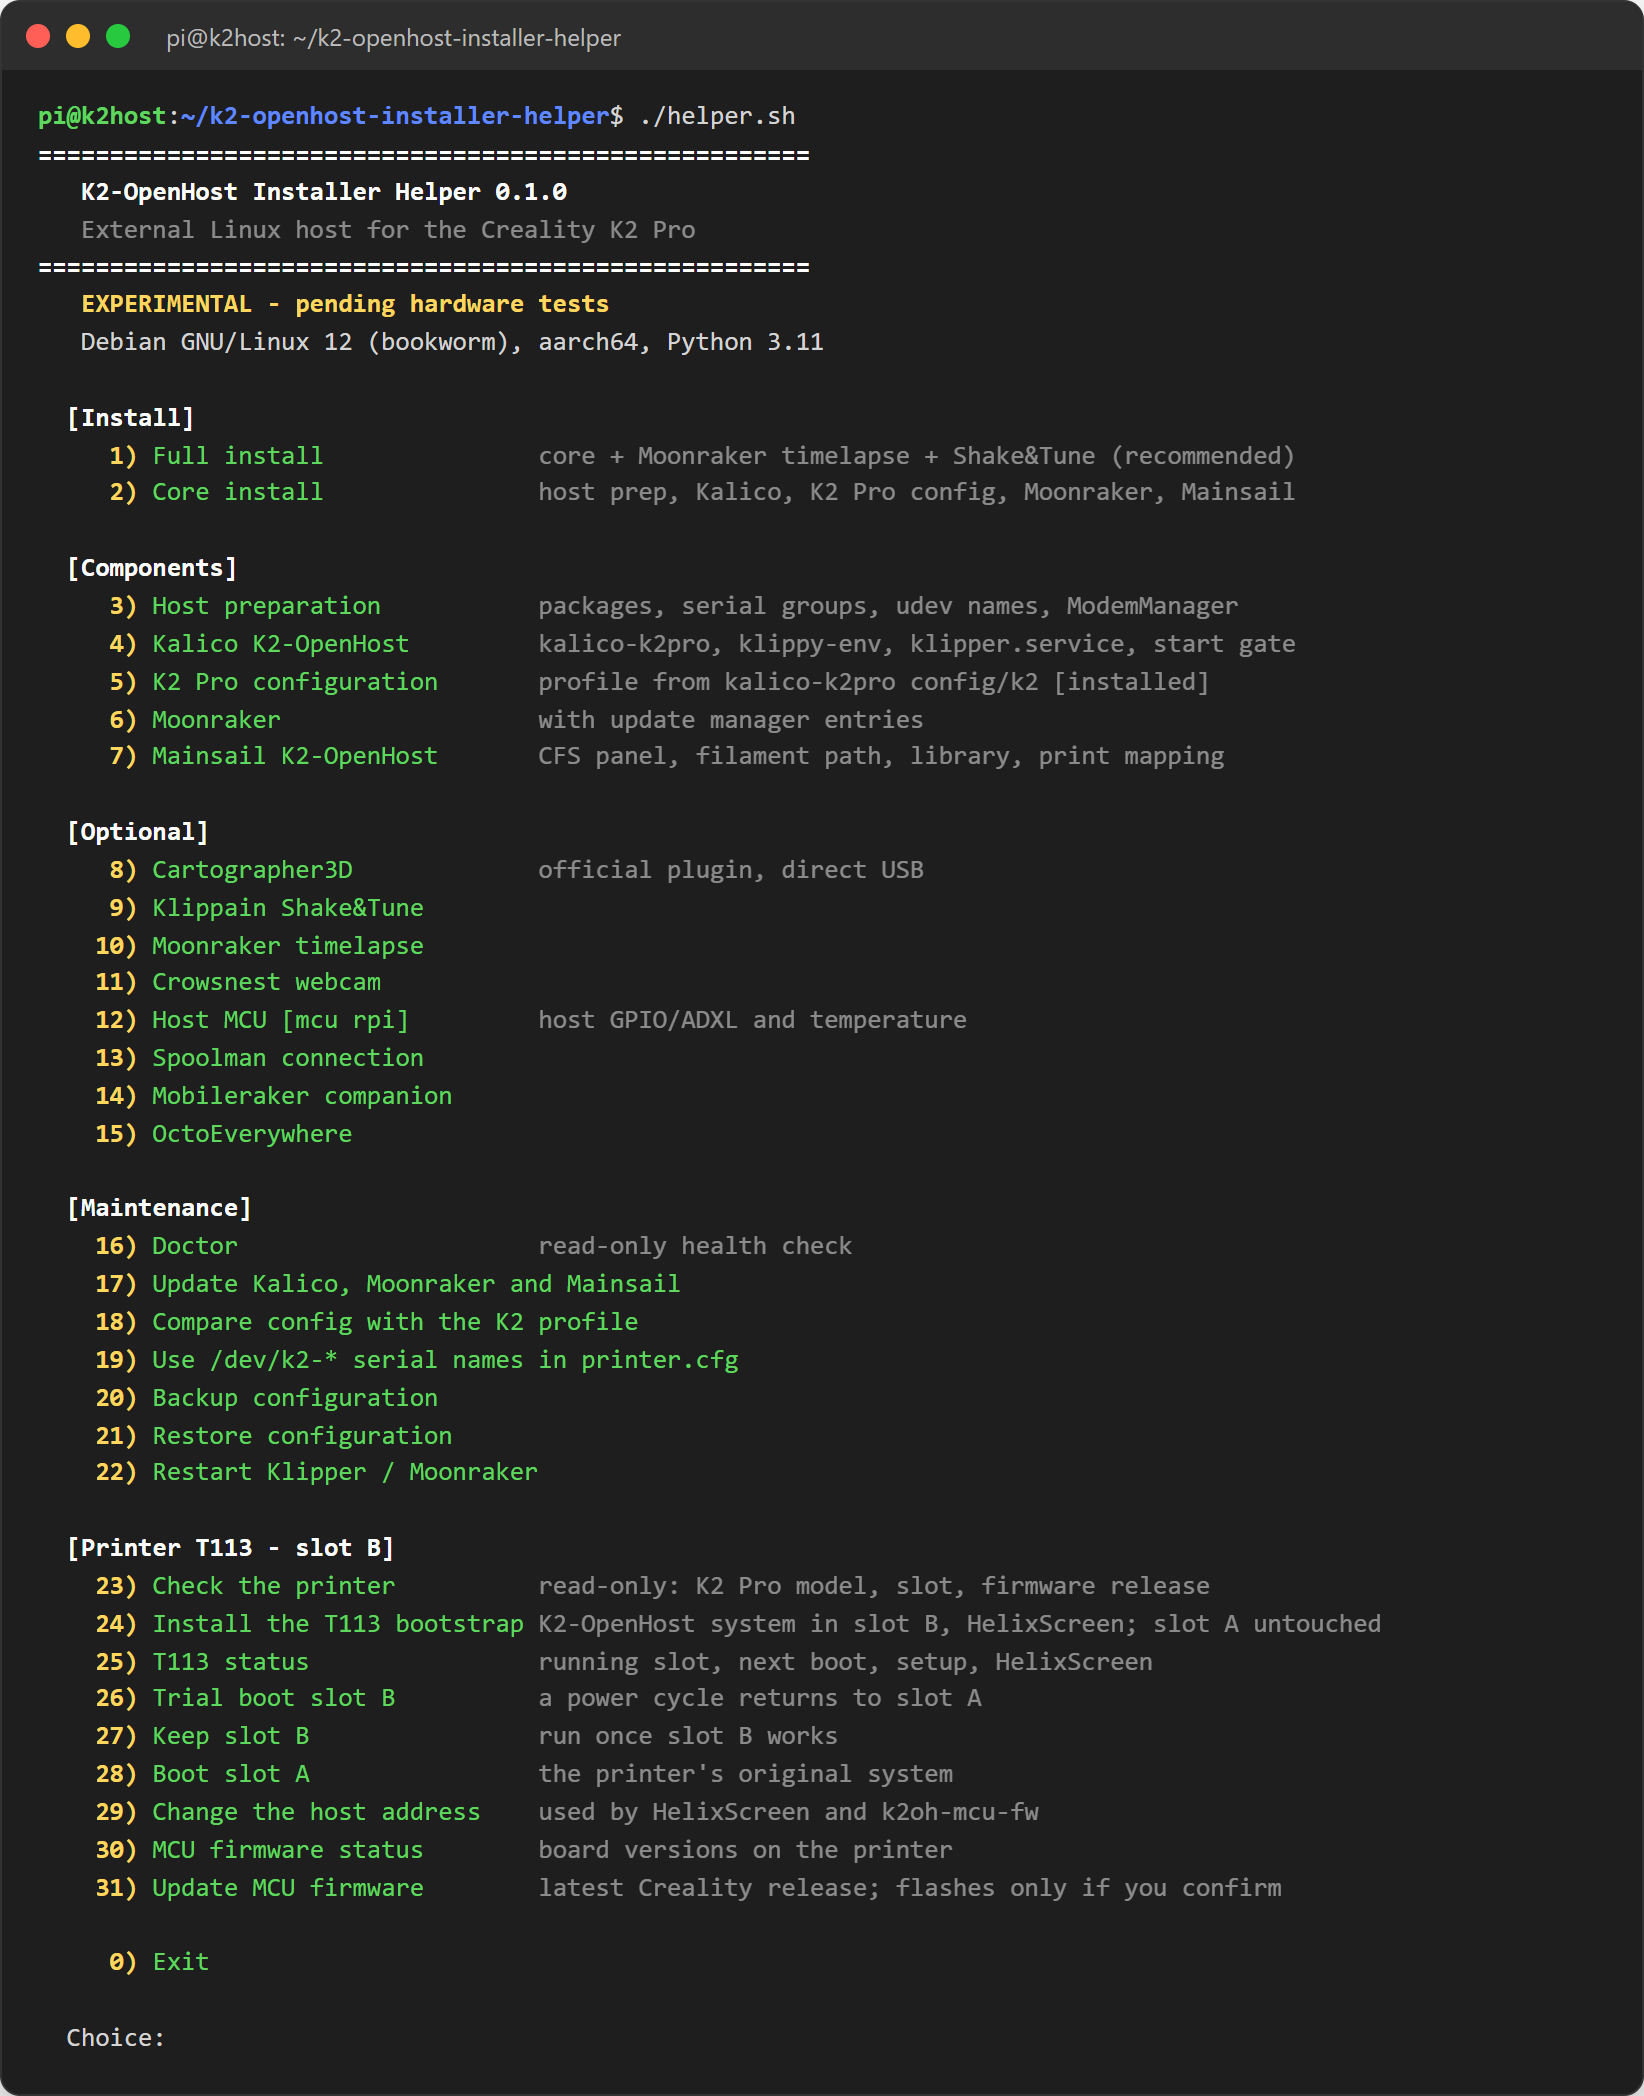
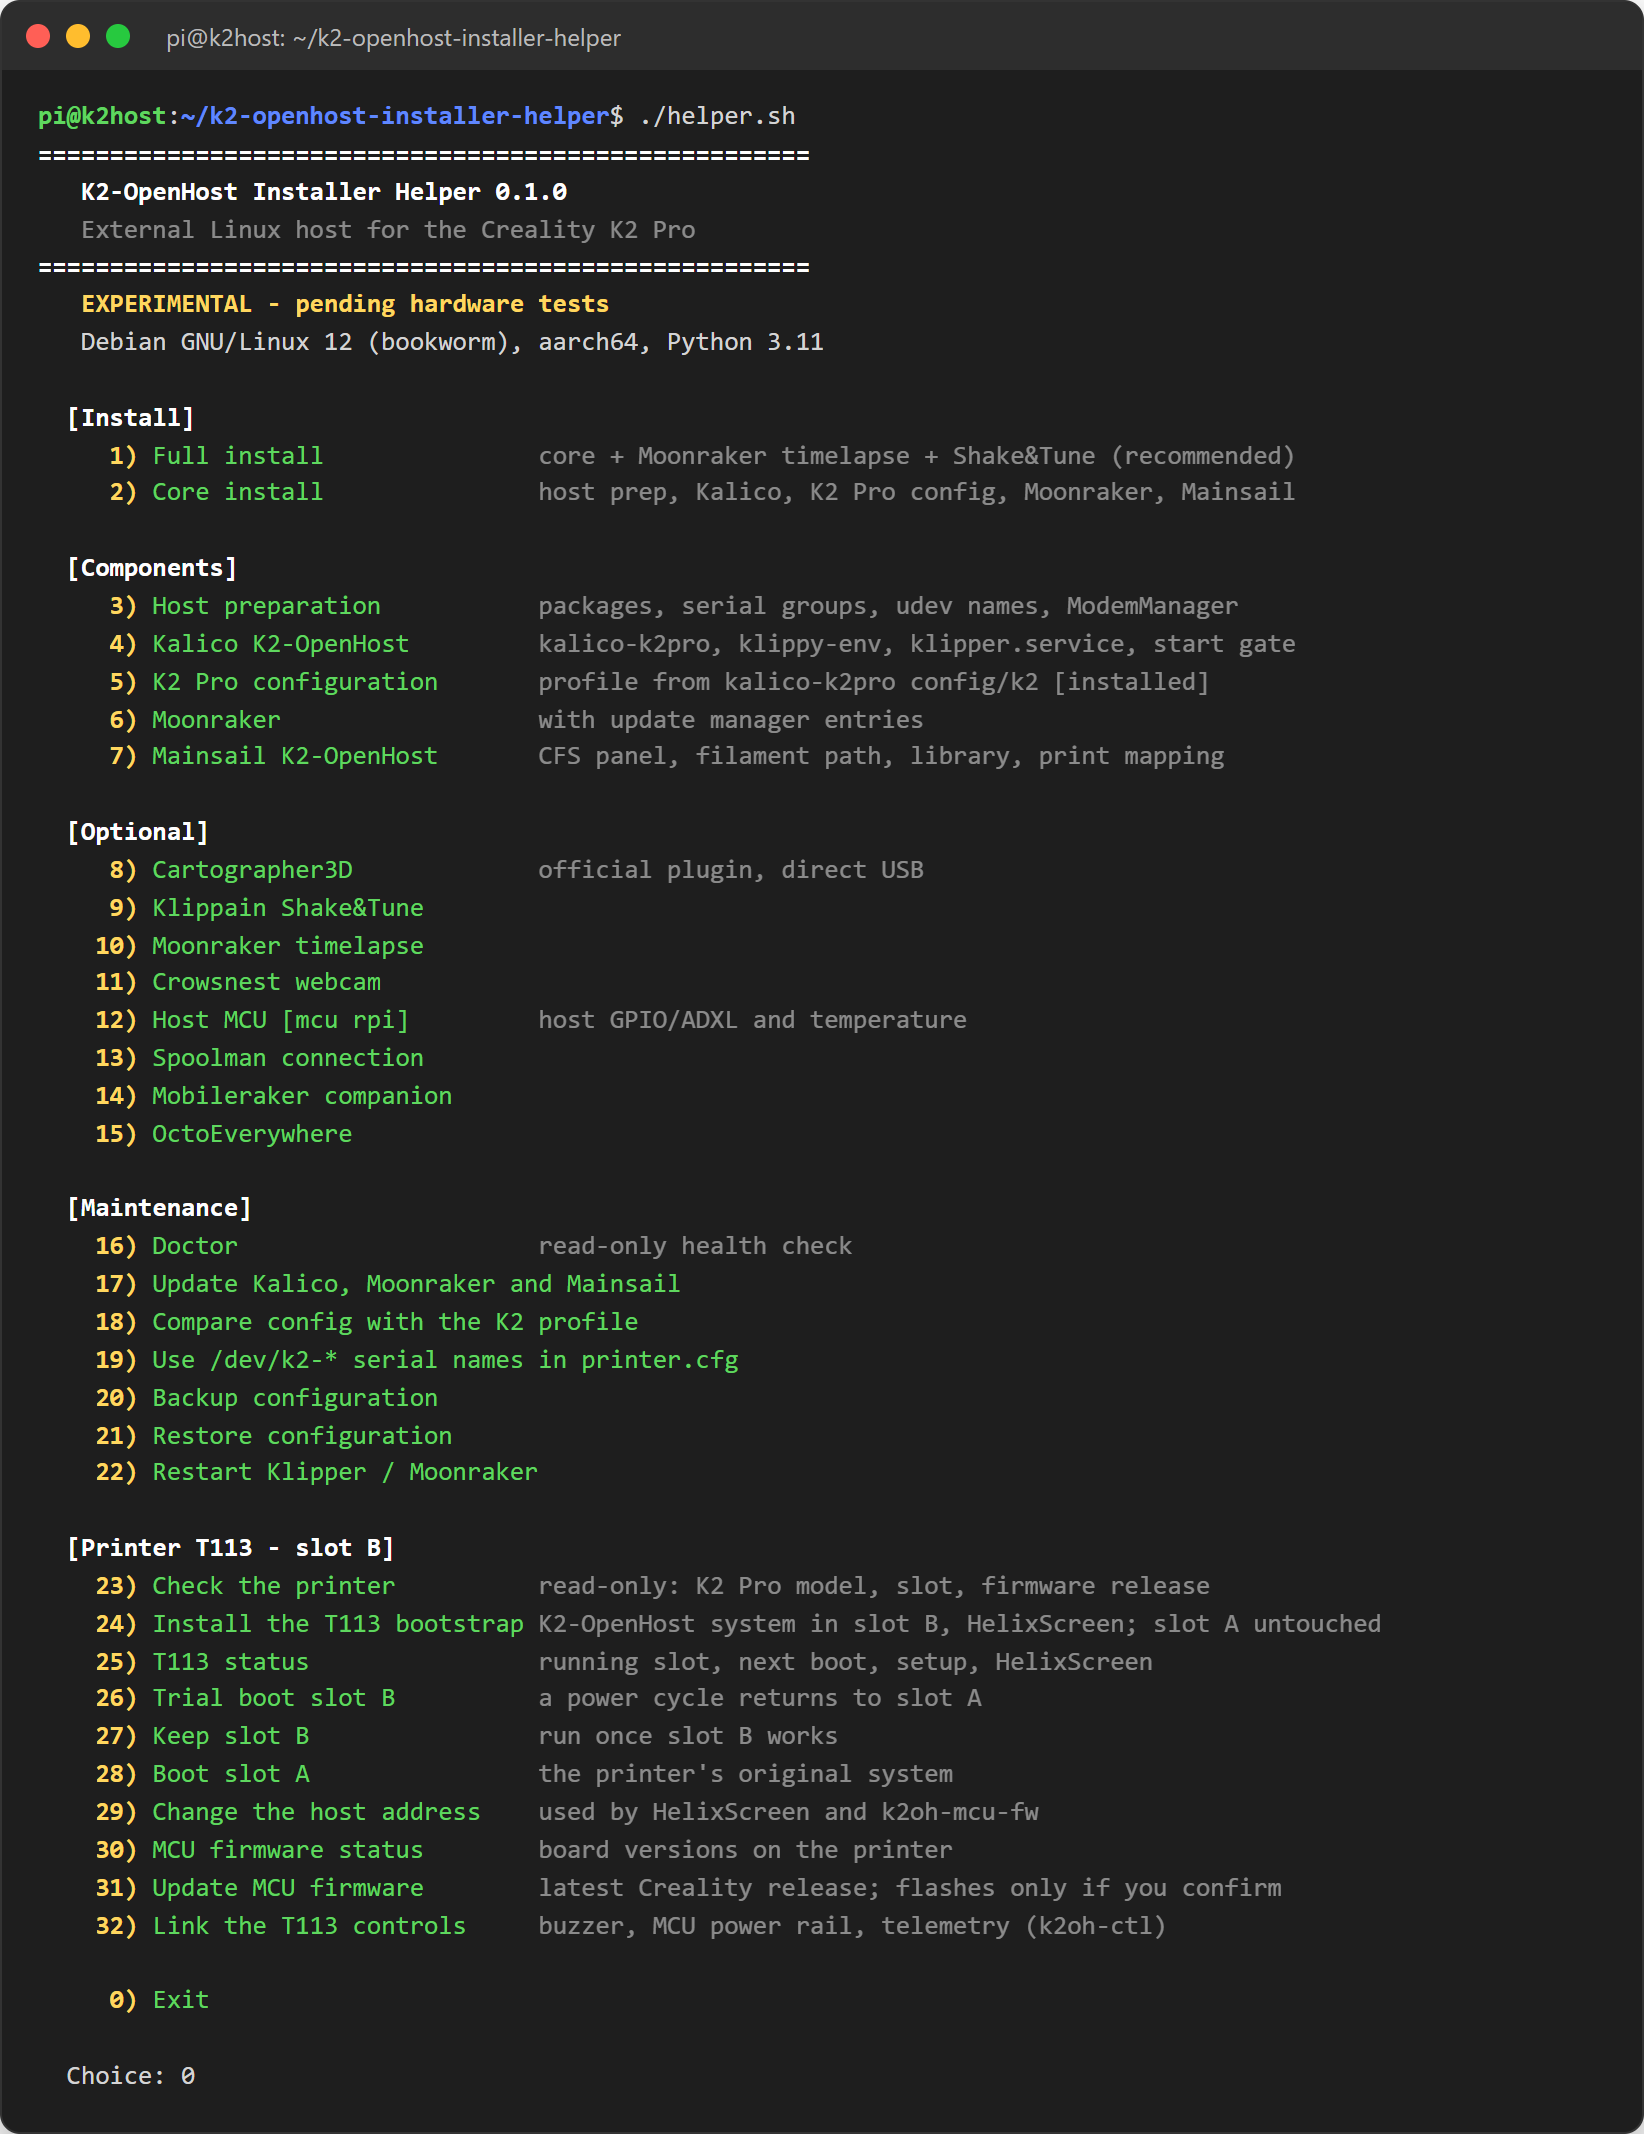
t113 link: connect this host to k2oh-ctl on the printer
Copies the k2oh-ctl token, sets host in k2_t113.cfg, writes the Moonraker power device K2_MCU_Power and enables [include k2_t113.cfg] when the installed Kalico has the module. Menu 32, also offered by the T113 install; k2_t113.cfg joins the K2 profile files. README EN/IT, CHANGELOG and menu/help screenshots updated.

diff --git a/README.it.md b/README.it.md
@@ -226,6 +226,7 @@ KAMP non viene installato a parte: è già integrato in Kalico e lo configura `k
 | 29 | Change the host address | Aggiorna l'host usato da HelixScreen e da `k2oh-mcu-fw` sulla stampante. |
 | 30 | MCU firmware status | Versioni delle schede sulla stampante e file firmware che lo slot B scriverebbe. |
 | 31 | Update MCU firmware | Scarica l'ultima versione Creality, la prepara, mostra cosa cambia e aggiorna solo se confermi. Se la stampante è inattiva propone di fermare Klipper su questo host, poi passa alla stampante una prova che le porte del gadget sono libere (serve `sudo`); gli stati sconosciuti bloccano. Passo per passo: `./helper.sh t113 mcu-fw list\|download\|stage\|apply` (vedi la guida). |
+| 32 | Link the T113 controls | Collega questo host a `k2oh-ctl` sullo slot B. Copia il token condiviso in `~/printer_data/config/k2oh_t113.token`, imposta `host` in `k2_t113.cfg` e scrive il dispositivo di alimentazione Moonraker `K2_MCU_Power` (`moonraker_k2_t113.conf`). Attiva `[include k2_t113.cfg]` solo se il Kalico installato ha il modulo. Viene proposto anche durante l'installazione. |
 
 Le voci già installate mostrano `[installed]`. Se un passaggio fallisce, il menu mostra l'errore e resta aperto.
 
@@ -256,6 +257,14 @@ La scheda T113 della stampante esegue i bridge USB gadget verso questo host. Il 
 `apply --cfs` include le unità CFS. Ecco un esempio sullo slot B, rispondendo no:
 
 <img src="docs/images/cli-t113-mcu-fw-update.png" alt="k2oh-mcu-fw update" width="760">
+
+**5. Servizio di controllo del T113** (voce 32, `./helper.sh t113 link`): collega Kalico e Moonraker a `k2oh-ctl` sulla stampante:
+- il buzzer: `T113_BEEP`, `M300`, e il bip dell'RFID esterno;
+- la telemetria del T113: `T113_STATUS`;
+- il riavvio dei bridge e di HelixScreen;
+- l'alimentazione delle MCU: il dispositivo Moonraker `K2_MCU_Power`, bloccato durante la stampa, e `T113_MCU_POWER_CYCLE CONFIRM=1`.
+
+Poi riavvia Moonraker e Klipper (voce 22).
 
 ## Riga di comando
 

diff --git a/README.md b/README.md
@@ -226,6 +226,7 @@ KAMP is not installed separately: Kalico already includes it, and the K2 profile
 | 29 | Change the host address | Updates the host used by HelixScreen and `k2oh-mcu-fw` on the printer. |
 | 30 | MCU firmware status | Board versions on the printer and the firmware files slot B would flash. |
 | 31 | Update MCU firmware | Downloads the latest Creality release, stages it, shows what changes and flashes only if you confirm. When the printer is idle it offers to stop Klipper on this host, then passes the printer a proof that the gadget ports are free (`sudo` is needed); unknown states block. Step by step: `./helper.sh t113 mcu-fw list\|download\|stage\|apply` (see the guide). |
+| 32 | Link the T113 controls | Connects this host to `k2oh-ctl` on slot B. It copies the shared token to `~/printer_data/config/k2oh_t113.token`, sets `host` in `k2_t113.cfg` and writes the Moonraker power device `K2_MCU_Power` (`moonraker_k2_t113.conf`). It turns `[include k2_t113.cfg]` on only when the installed Kalico has the module. The install offers it too. |
 
 Entries already installed show `[installed]`. If a step fails, the menu shows the error and stays open.
 
@@ -256,6 +257,14 @@ The printer's own T113 board runs the USB gadget bridges to this host. The boots
 `apply --cfs` includes the CFS units. This is an example run on slot B, answering no:
 
 <img src="docs/images/cli-t113-mcu-fw-update.png" alt="k2oh-mcu-fw update" width="760">
+
+**5. T113 control service** (menu 32, `./helper.sh t113 link`): connects Kalico and Moonraker to `k2oh-ctl` on the printer:
+- the buzzer: `T113_BEEP`, `M300`, and the external RFID beep;
+- T113 telemetry: `T113_STATUS`;
+- bridge and HelixScreen restarts;
+- the MCU power rail: the Moonraker power device `K2_MCU_Power`, locked while printing, and `T113_MCU_POWER_CYCLE CONFIRM=1`.
+
+Restart Moonraker and Klipper afterwards (menu 22).
 
 ## Command line
 

diff --git a/CHANGELOG.md b/CHANGELOG.md
@@ -12,6 +12,7 @@
   - trial boot that a power cycle undoes, commit, back to slot A.
 
   Slot B runs the USB gadget, one bridge per bus, Wi-Fi, a first-boot HelixScreen install pointed at the host, and keeps its writable layer on UDISK. It never formats, checks or wipes UDISK or slot A's `rootfs_data`.
+- `t113 link` (menu 32, also offered by the install) connects this host to `k2oh-ctl` on slot B: token to `k2oh_t113.token`, `host` in `k2_t113.cfg`, Moonraker power device `K2_MCU_Power` in `moonraker_k2_t113.conf`, and `[include k2_t113.cfg]` when the installed Kalico has the module. `k2_t113.cfg` joins the K2 profile files.
 - `t113 mcu-fw apply|update` (menu 31) stops Klipper on this host only when its print state is a known idle state, then passes `k2oh-mcu-fw` the proof from `k2oh-host-evidence` that the printer's gadget ports are free (MzTechnology97/k2-openhost-t113-bootstrap#1).
 - `k2oh-mcu-fw` on slot B:
   - lists and downloads Creality firmware releases;
